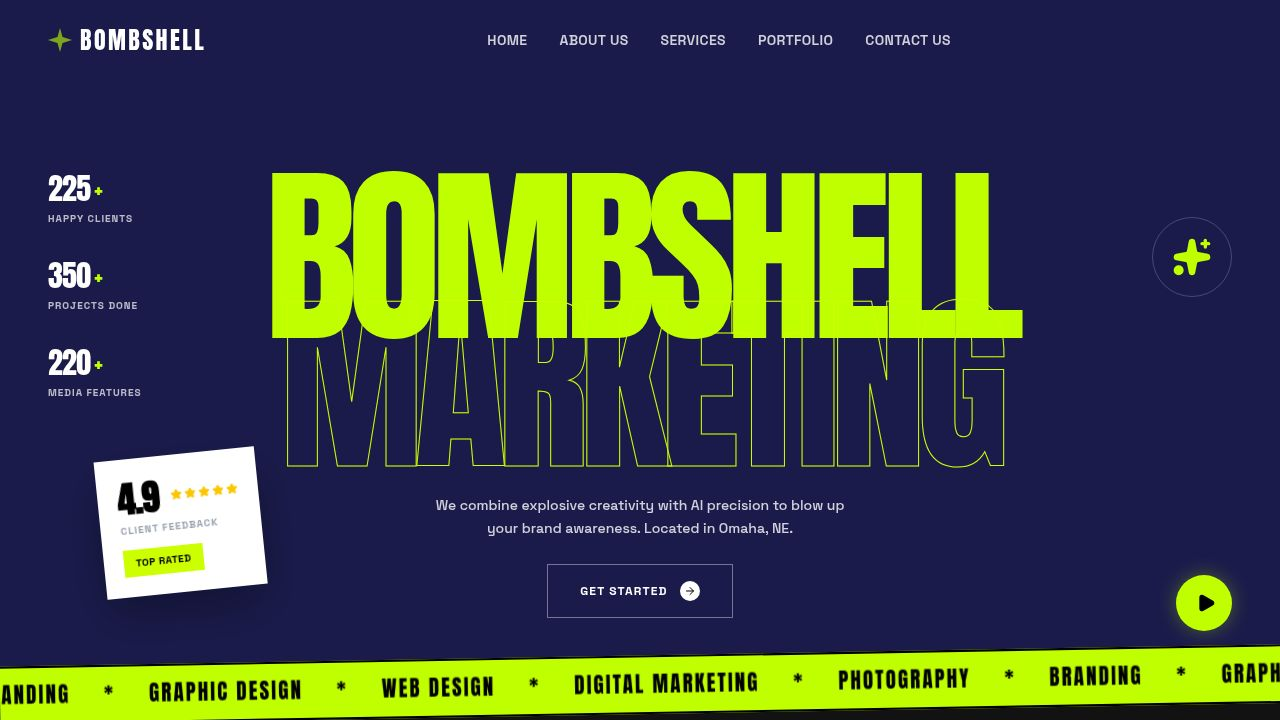
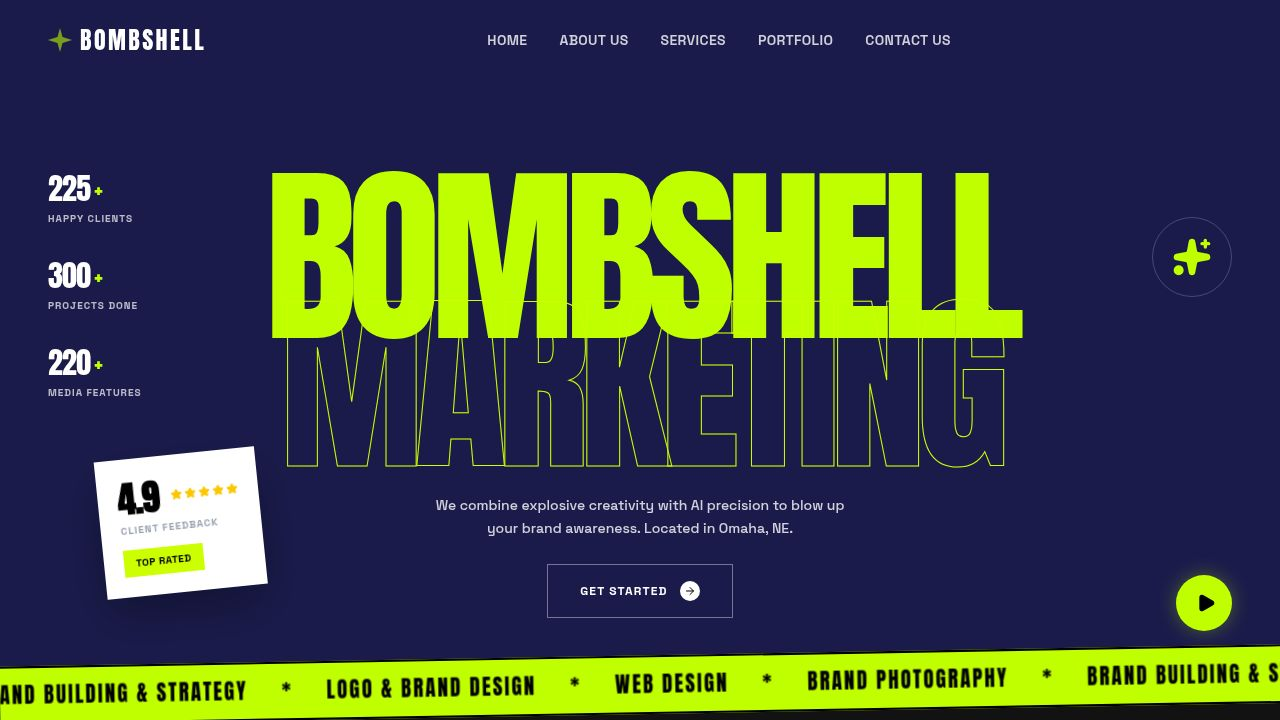
Update project count on the website to reflect 300+ projects
Changed the displayed number of "Projects Done" from 350+ to 300+ in the Hero component.

Replit-Commit-Author: Agent
Replit-Commit-Session-Id: b97b545a-2953-4744-8807-01dbd9bc97d5
Replit-Commit-Checkpoint-Type: full_checkpoint
Replit-Commit-Event-Id: 6d51805c-5e1e-43b0-a0cb-5b6c9f1a816f
Replit-Commit-Screenshot-Url: https://storage.googleapis.com/screenshot-production-us-central1/cacd662f-1fbf-427a-8dde-dff8a0747f32/b97b545a-2953-4744-8807-01dbd9bc97d5/aWni8dl
Replit-Helium-Checkpoint-Created: true

Changed region(s): [[0.0, 0.9167, 1.0, 0.9778], [0.0312, 0.3667, 0.0625, 0.3972]]

diff --git a/client/src/components/Hero.tsx b/client/src/components/Hero.tsx
@@ -25,7 +25,7 @@ export function Hero() {
               <p className="text-[10px] uppercase tracking-widest text-white/70 font-bold">Happy Clients</p>
             </div>
             <div className="space-y-1">
-              <h3 className="text-3xl font-display text-white flex items-center gap-1">350<span className="text-primary text-2xl">+</span></h3>
+              <h3 className="text-3xl font-display text-white flex items-center gap-1">300<span className="text-primary text-2xl">+</span></h3>
               <p className="text-[10px] uppercase tracking-widest text-white/70 font-bold">Projects Done</p>
             </div>
             <div className="space-y-1">
